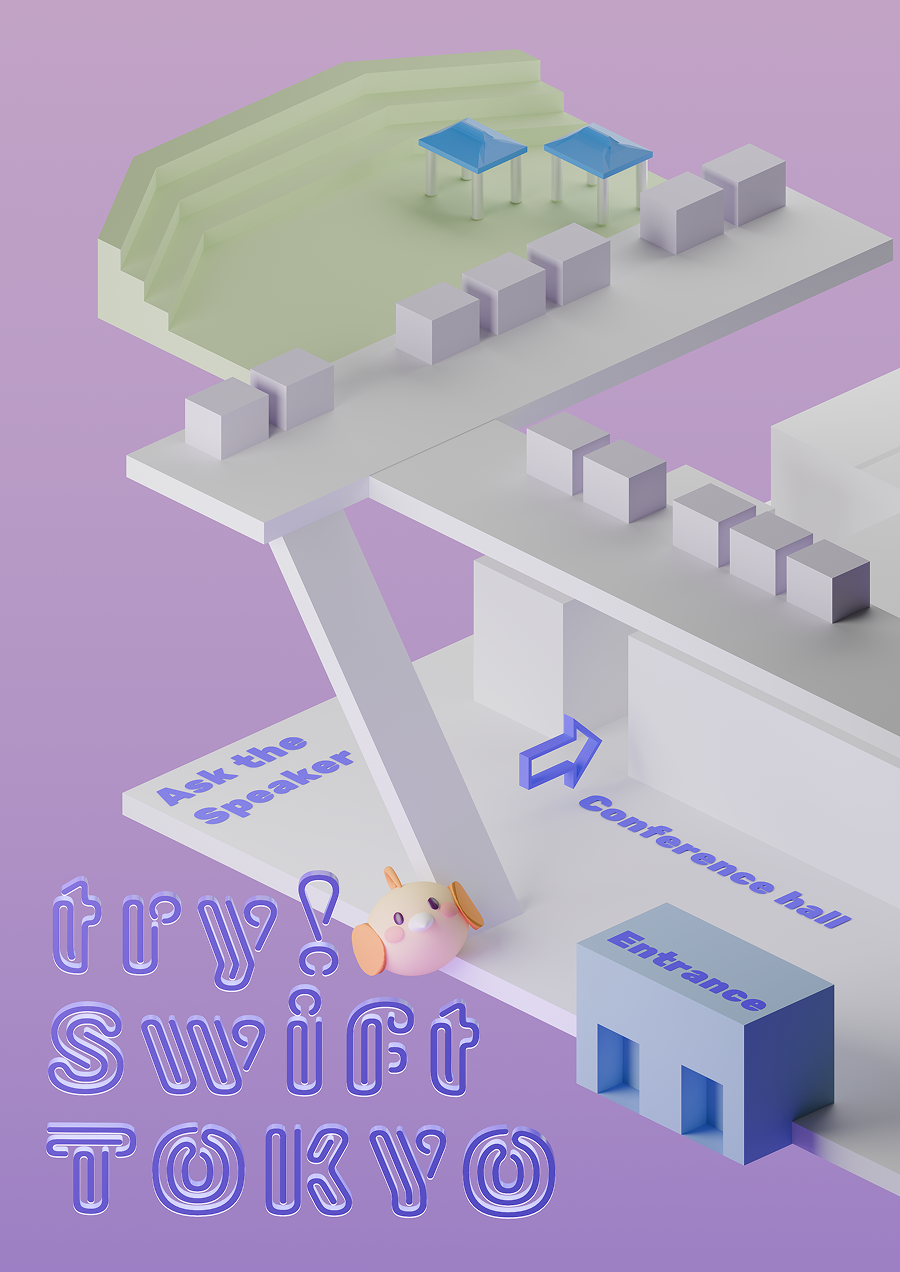
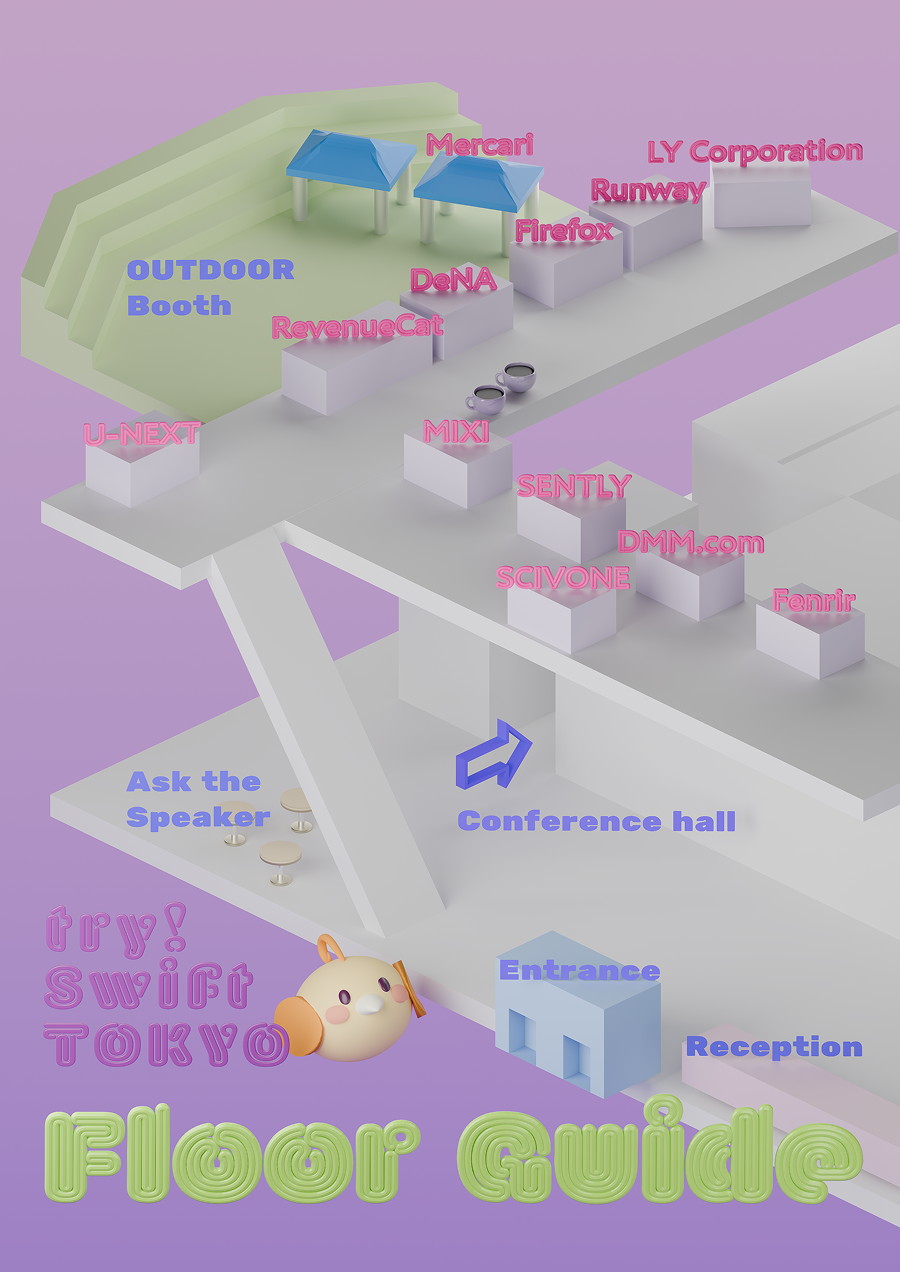
:sparkles: Update booth map and schedule (#434)
* :lipstick: update booth map image and page layout

* :pencil: remove TBD from Apr. 12 workshop schedule description

* ♻ Refactor code

diff --git a/Website/Sources/Pages/BoothMap.swift b/Website/Sources/Pages/BoothMap.swift
@@ -5,8 +5,21 @@ struct BoothMap: StaticPage {
   var path = "/booth-map"
 
   var body: some HTML {
-    Image("/images/booth-map.png", description: "Booth Map")
-      .resizable()
-      .frame(maxWidth: .percent(100%))
+    Section {
+      Image("/images/booth-map.png", description: "Booth Map")
+        .resizable()
+        .frame(width: .percent(100%), height: .percent(100%))
+        .style(.objectFit, "contain")
+    }
+    .ignorePageGutters()
+    .frame(height: .vh(100%))
+    .style(.display, "flex")
+    .style(.alignItems, "center")
+    .style(.justifyContent, "center")
+    .background(
+      Gradient(
+        colors: [.init(hex: "#BDA4C4"), .init(hex: "#B29AC2"), .init(hex: "#9881BF")],
+        type: .linear(angle: 180))
+    )
   }
 }

diff --git a/Website/Sources/Components/OutlineComponent.swift b/Website/Sources/Components/OutlineComponent.swift
@@ -104,7 +104,7 @@ private struct OutlineData {
   static let year2026 = OutlineData(
     firstLabel: "Date and time",
     firstValue:
-      "Apr. 12th – 14th, 2026 (JST)<br><br>Apr. 12: Workshop & TBD<br>Apr. 13 - 14: Conference",
+      "Apr. 12th – 14th, 2026 (JST)<br><br>Apr. 12: Workshop<br>Apr. 13 - 14: Conference",
     secondLabel: "Venue",
     secondValue:
       "Apr. 12: Tachikawa City, Tokyo, Japan<br>Apr. 13 - 14: <a href=\"#access\">TACHIKAWA STAGE GARDEN</a>"
